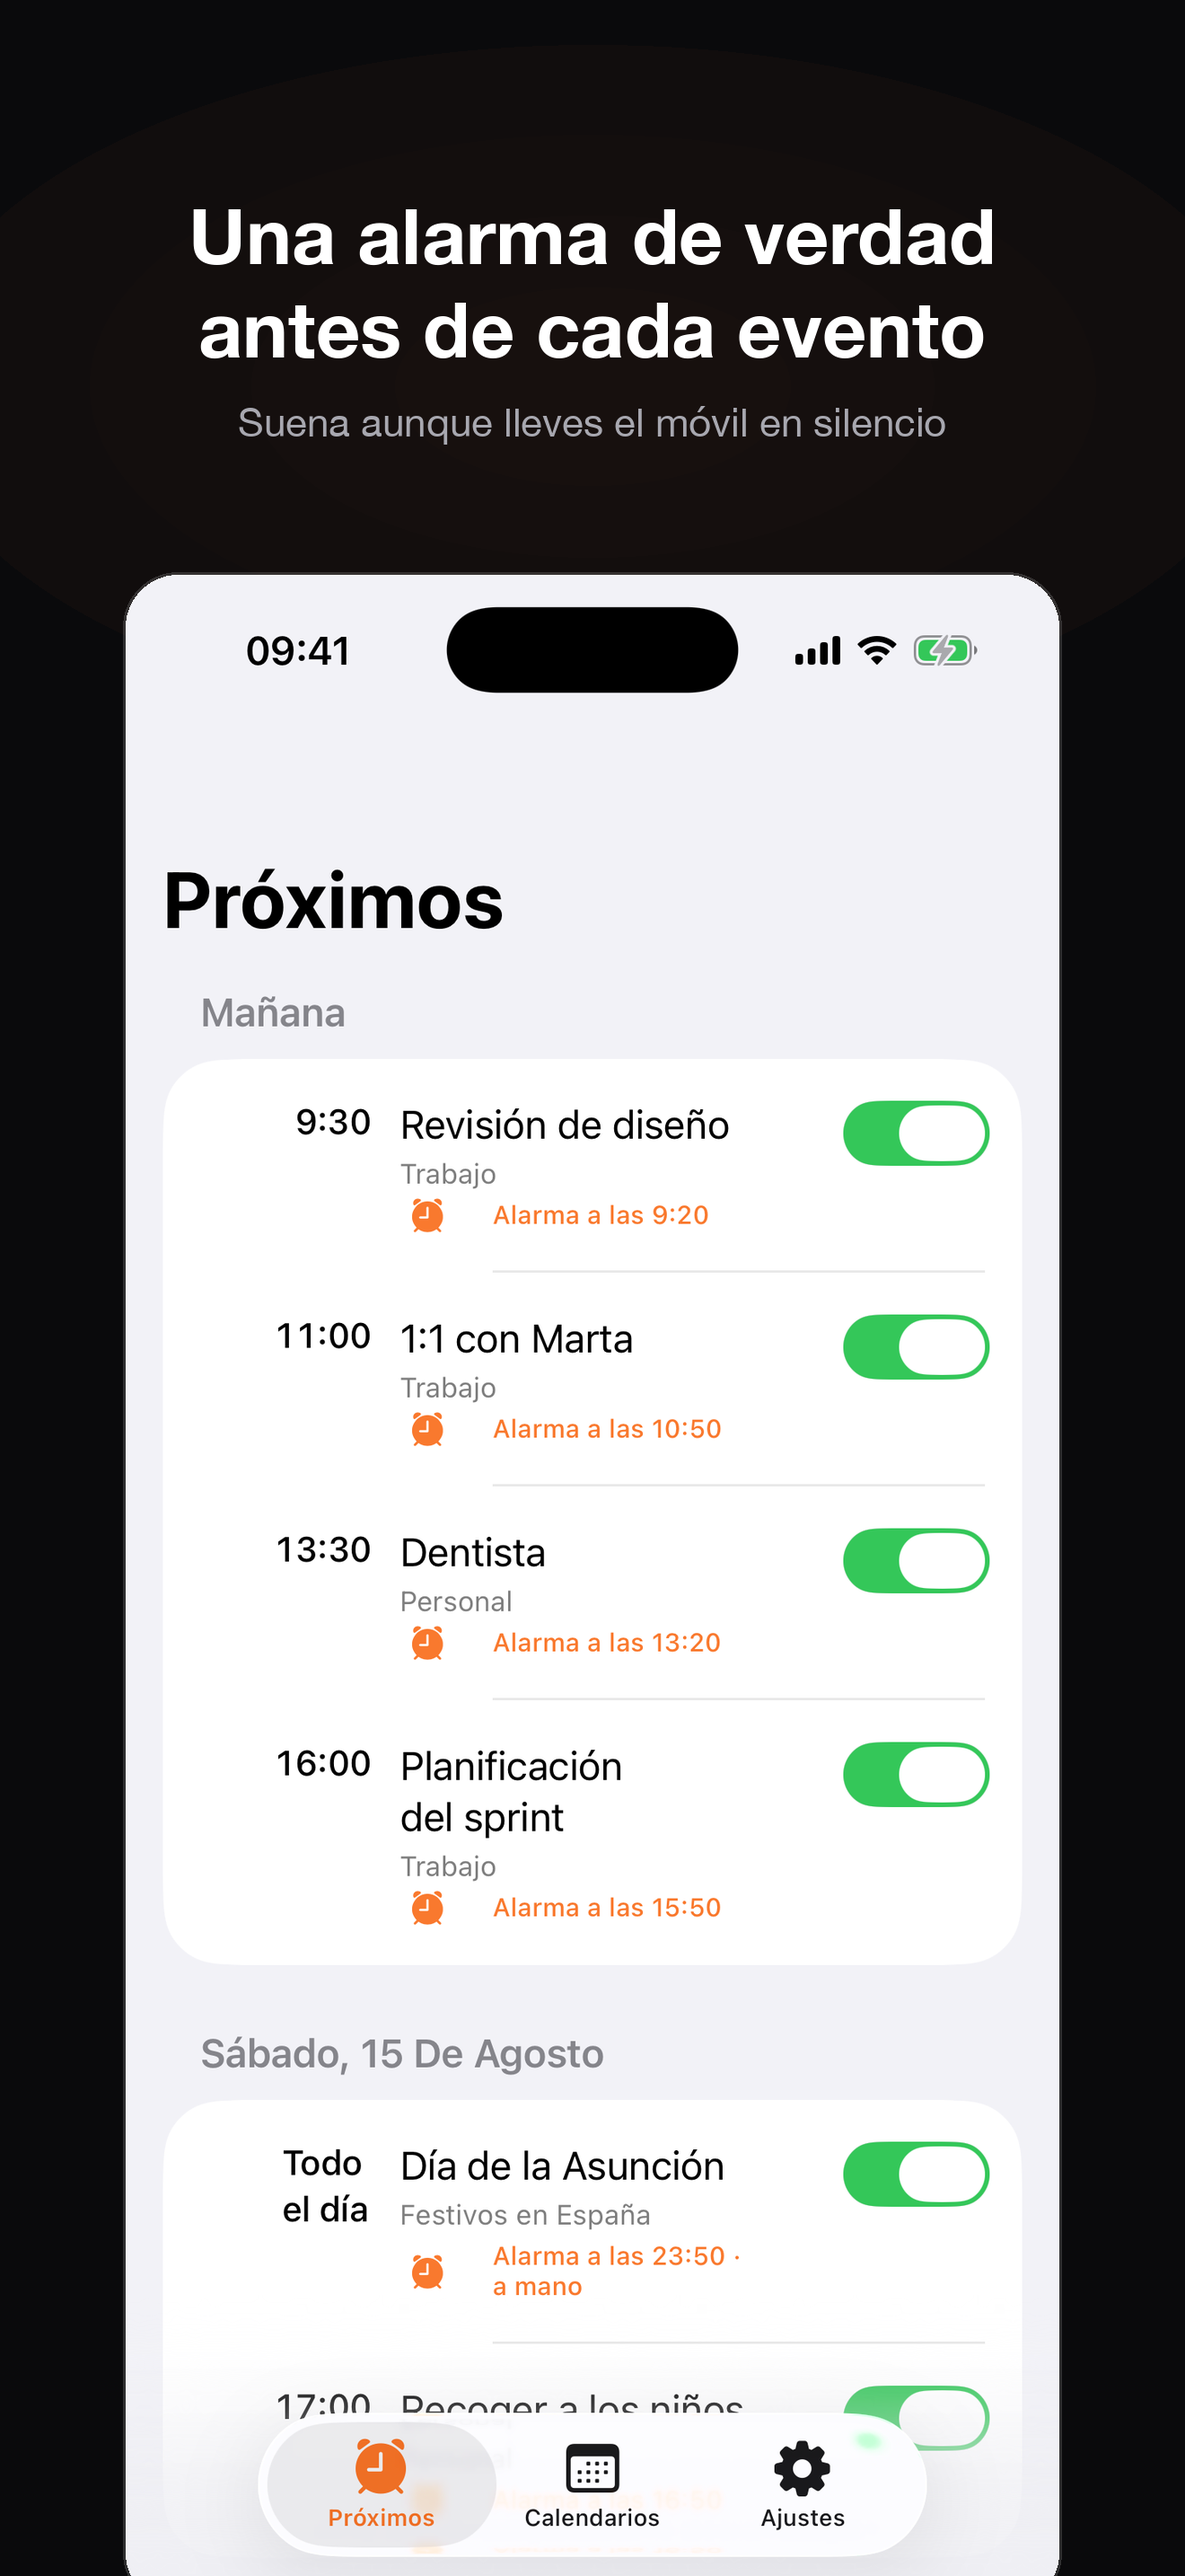
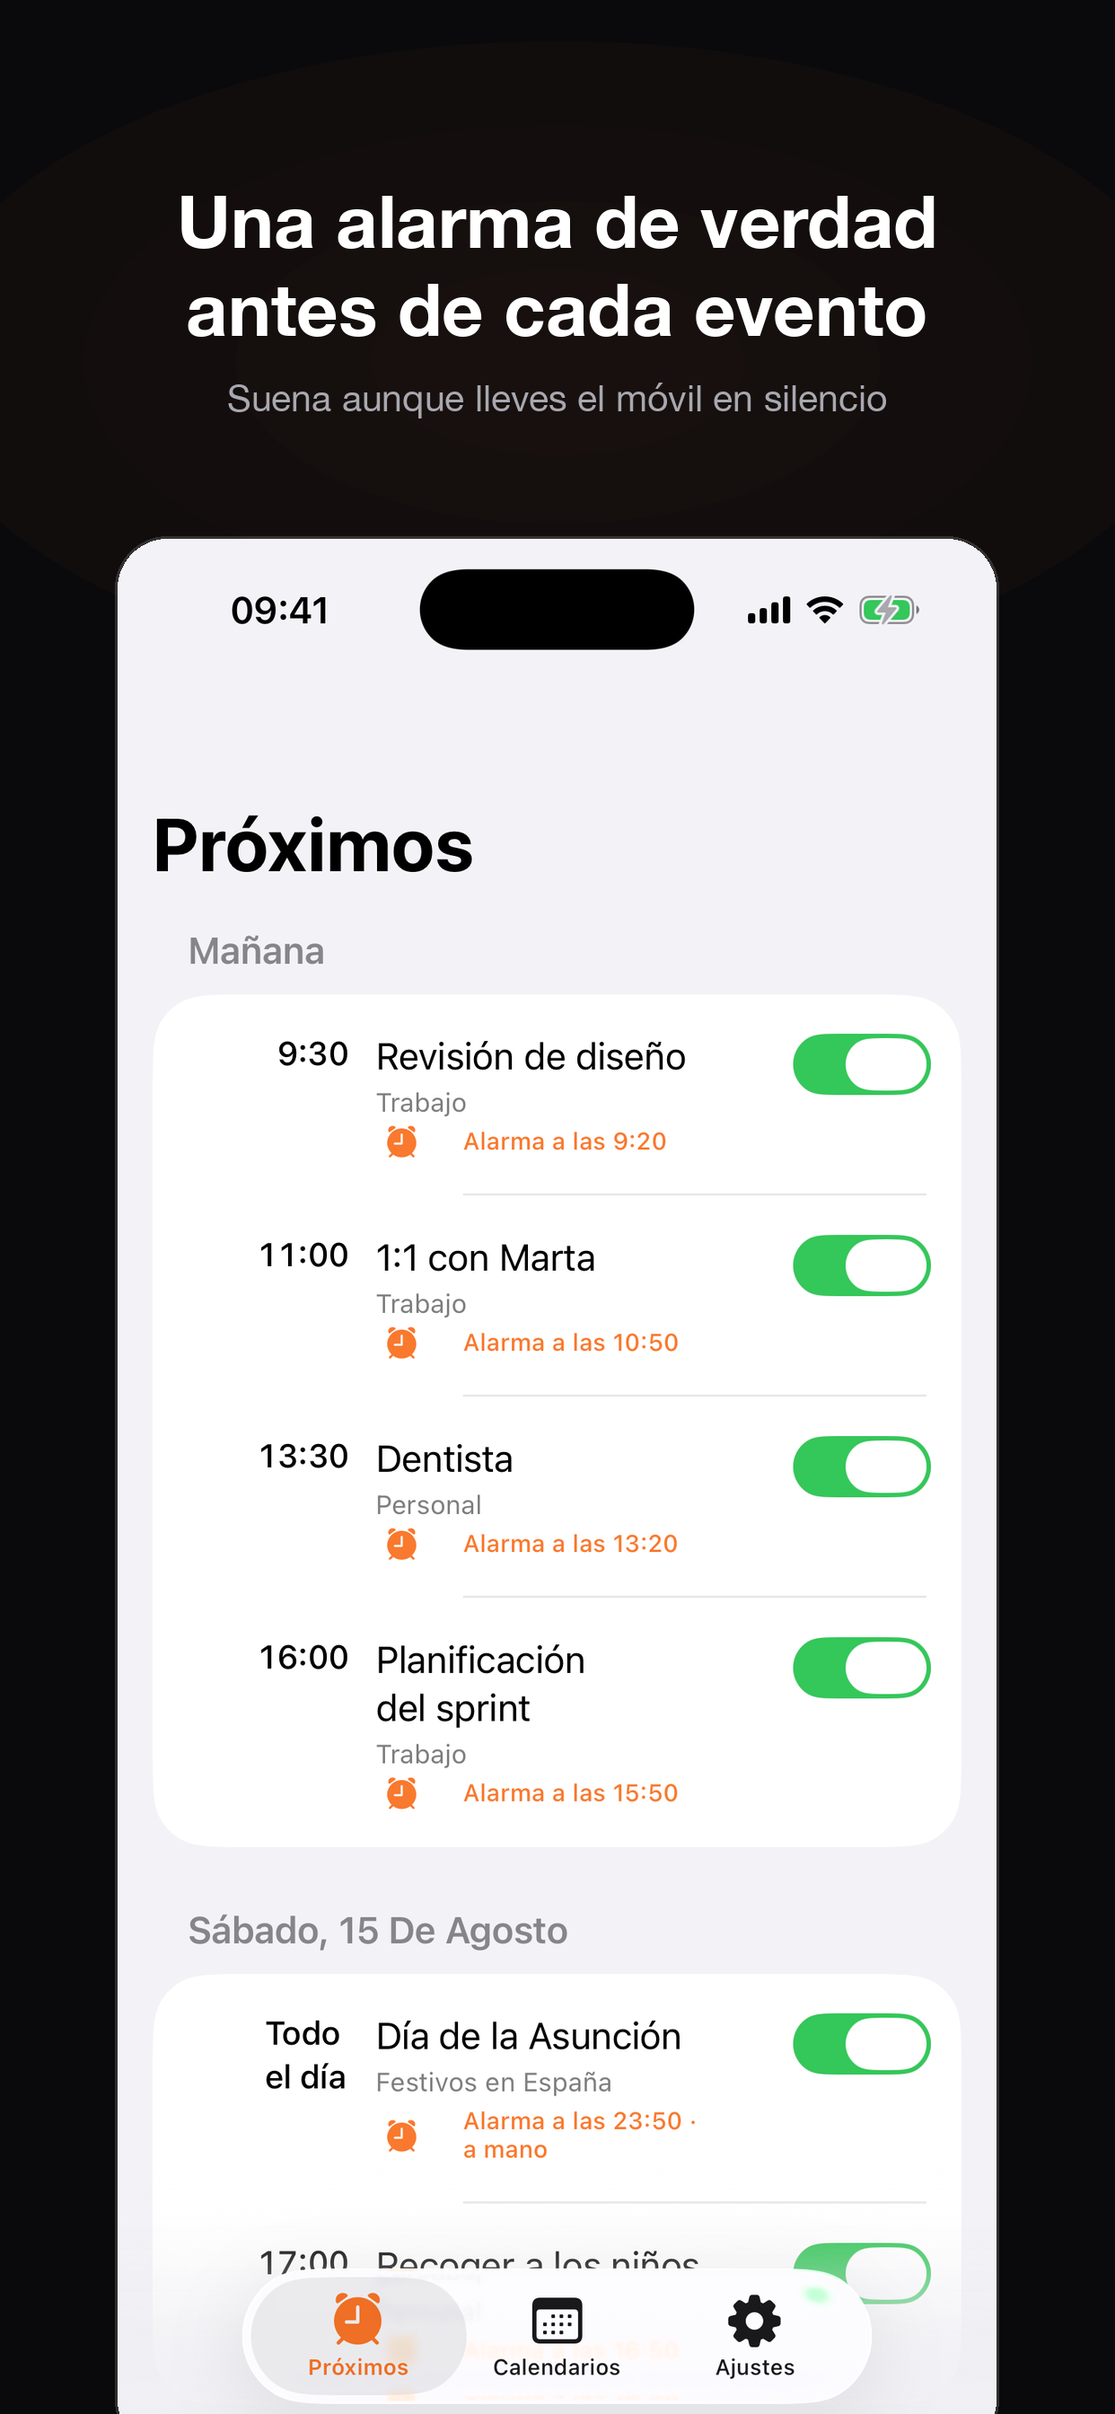
Capturas a 1242x2688
Las ocho capturas pasan a 1242x2688, un único tamaño. El compositor mantiene
las medidas proporcionales al ancho del lienzo, así que cambiarlo en el futuro
es tocar una constante.

diff --git a/AppStore/componer-capturas.py b/AppStore/componer-capturas.py
@@ -2,9 +2,9 @@
 """Compone las capturas promocionales de la App Store.
 
 Toma las capturas crudas del simulador y las monta sobre un lienzo de
-1320x2868 (el tamaño de 6,9" que exige App Store Connect) con un titular
-encima. El lienzo se dibuja a tamaño final, así que la captura del
-dispositivo se coloca a escala natural, sin reescalar hacia arriba.
+1242x2688 con un titular encima. El lienzo se dibuja a tamaño final, así que
+la captura del dispositivo se coloca a escala natural, sin reescalar hacia
+arriba.
 
     python3 AppStore/componer-capturas.py <dir-capturas> <dir-salida>
 """
@@ -13,7 +13,7 @@ from pathlib import Path
 
 from PIL import Image, ImageDraw, ImageFont
 
-LIENZO = (1320, 2868)          # 6,9 pulgadas
+LIENZO = (1242, 2688)
 FONDO = (10, 10, 12)
 ACENTO = (249, 121, 46)
 FUENTE = "/System/Library/Fonts/HelveticaNeue.ttc"
@@ -63,46 +63,53 @@ def esquinas_redondeadas(imagen: Image.Image, radio: int) -> Image.Image:
 
 def resplandor(lienzo: Image.Image) -> None:
     """Halo naranja tenue detrás del titular, para que el fondo no sea plano."""
+    ancho, alto = lienzo.size
     capa = Image.new("RGBA", lienzo.size, (0, 0, 0, 0))
     dibujo = ImageDraw.Draw(capa)
-    cx, cy = LIENZO[0] // 2, 430
-    for radio, alfa in [(760, 8), (560, 10), (380, 12), (220, 14)]:
+    cx, cy = ancho // 2, round(alto * 0.150)
+    for f, alfa in [(0.576, 8), (0.424, 10), (0.288, 12), (0.167, 14)]:
+        radio = round(ancho * f)
         dibujo.ellipse([cx - radio, cy - radio // 2, cx + radio, cy + radio // 2],
                        fill=(*ACENTO, alfa))
     lienzo.alpha_composite(capa)
 
 
-def centrar(dibujo, texto, fuente, y, color, interlineado):
+def centrar(dibujo, texto, fuente, y, color, interlineado, ancho_lienzo):
     for linea in texto.split("\n"):
         ancho = dibujo.textbbox((0, 0), linea, font=fuente)[2]
-        dibujo.text(((LIENZO[0] - ancho) // 2, y), linea, font=fuente, fill=color)
+        dibujo.text(((ancho_lienzo - ancho) // 2, y), linea, font=fuente, fill=color)
         y += interlineado
     return y
 
 
-def componer(captura: Path, titular: str, apoyo: str, destino: Path) -> None:
-    lienzo = Image.new("RGBA", LIENZO, (*FONDO, 255))
+def componer(captura: Path, titular: str, apoyo: str, destino: Path, lienzo_px) -> None:
+    W, H = lienzo_px
+    lienzo = Image.new("RGBA", lienzo_px, (*FONDO, 255))
     resplandor(lienzo)
     dibujo = ImageDraw.Draw(lienzo)
 
-    titulo = ImageFont.truetype(FUENTE, 86, index=1)     # Bold
-    sub = ImageFont.truetype(FUENTE, 44, index=0)        # Regular
+    # Medidas proporcionales al ancho, no fijas, por si cambia el lienzo.
+    titulo = ImageFont.truetype(FUENTE, round(W * 0.0652), index=1)   # Bold
+    sub = ImageFont.truetype(FUENTE, round(W * 0.0333), index=0)      # Regular
 
-    y = centrar(dibujo, titular, titulo, 210, (255, 255, 255), 104)
-    centrar(dibujo, apoyo, sub, y + 26, (168, 168, 176), 56)
+    y = centrar(dibujo, titular, titulo, round(H * 0.0732),
+                (255, 255, 255), round(W * 0.0788), W)
+    centrar(dibujo, apoyo, sub, y + round(W * 0.020),
+            (168, 168, 176), round(W * 0.0424), W)
 
     # La captura se reduce, nunca se amplía: así no se ve borrosa.
     foto = Image.open(captura).convert("RGB")
-    ancho = 1040
+    ancho = round(W * 0.7879)
     alto = round(foto.size[1] * ancho / foto.size[0])
+    radio = round(W * 0.0439)
     foto = foto.resize((ancho, alto), Image.LANCZOS)
-    foto = esquinas_redondeadas(foto, 58)
+    foto = esquinas_redondeadas(foto, radio)
 
-    x = (LIENZO[0] - ancho) // 2
-    y = 640
+    x = (W - ancho) // 2
+    y = round(H * 0.2232)
     marco = Image.new("RGBA", (ancho + 6, alto + 6), (0, 0, 0, 0))
     ImageDraw.Draw(marco).rounded_rectangle(
-        [(0, 0), (ancho + 5, alto + 5)], 61, outline=(255, 255, 255, 38), width=3
+        [(0, 0), (ancho + 5, alto + 5)], radio + 3, outline=(255, 255, 255, 38), width=3
     )
     lienzo.alpha_composite(marco, (x - 3, y - 3))
     lienzo.alpha_composite(foto, (x, y))
@@ -125,7 +132,7 @@ def main() -> int:
                 print(f"  falta {captura}")
                 continue
             destino = carpeta / f"{n}.png"
-            componer(captura, titular, apoyo, destino)
+            componer(captura, titular, apoyo, destino, LIENZO)
             print(f"{idioma}/{destino.name}  {Image.open(destino).size}")
     return 0
 
